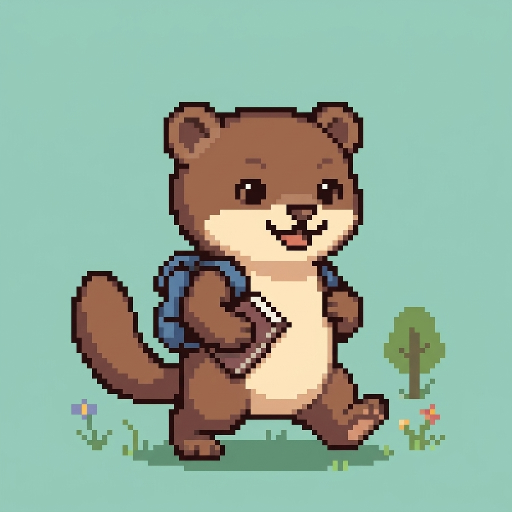
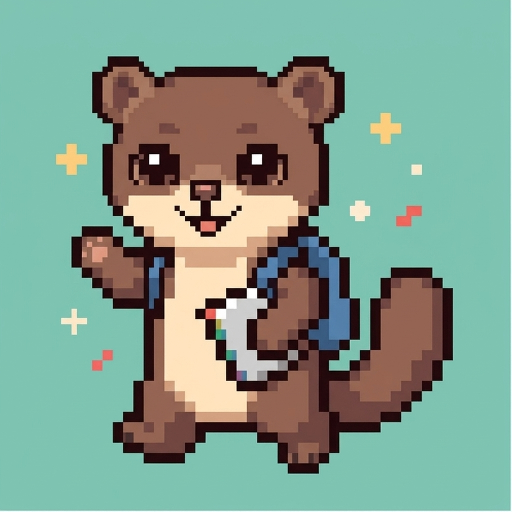
Add files via upload

diff --git a/main.py b/main.py
@@ -252,7 +252,7 @@ def cmd_start(message):
     send_mascot_art(
         message.chat.id,
         'marten_welcome',
-        f'🐾 <b>С возвращением!</b> Куница на связи и готова к работе.\n\n'
+        f'🐾 <b>С возвращением!</b> Яша на связи и готов к работе.\n\n'
         f'<blockquote>{group_info_block}'
         f'👤 <b>Статус:</b> {role_text}\n'
         f'🗓 <b>Авторассылка:</b> {sub_status}\n'
@@ -365,7 +365,7 @@ def handle_menu(message):
     if 'сегодня' in text_lower:
         log_stat_event('today')
         text = get_schedule_text(now_local(), course, group_name, faculty_code=fac_code)
-        is_chill = any(k in text for k in ('свернулась калачиком', 'пар на этот день нет', 'внезапный выходной'))
+        is_chill = any(k in text for k in ('свернулся калачиком', 'пар на этот день нет', 'внезапный выходной'))
         art_key = 'marten_chill' if is_chill else 'marten_classes'
         send_mascot_art(
             user_id,
@@ -379,7 +379,7 @@ def handle_menu(message):
         log_stat_event('tomorrow')
         tomorrow_dt = now_local() + timedelta(days=1)
         text = get_schedule_text(tomorrow_dt, course, group_name, faculty_code=fac_code)
-        is_chill = any(k in text for k in ('свернулась калачиком', 'пар на этот день нет', 'внезапный выходной'))
+        is_chill = any(k in text for k in ('свернулся калачиком', 'пар на этот день нет', 'внезапный выходной'))
         art_key = 'marten_chill' if is_chill else 'marten_classes'
         send_mascot_art(
             user_id,
@@ -1066,7 +1066,7 @@ def _run_scheduled_mailing(day_offset, greeting_line, day_label_genitive, sub_co
 def morning_mailing():
     _run_scheduled_mailing(
         0,
-        '☀🐾 <b>Доброе утро!</b> Куница принесла расписание пар и ДЗ на сегодня:',
+        '☀🐾 <b>Доброе утро!</b> Яша принёс расписание пар и ДЗ на сегодня:',
         'сегодня',
         sub_column='sub_morning',
     )
@@ -1075,7 +1075,7 @@ def morning_mailing():
 def evening_mailing():
     _run_scheduled_mailing(
         1,
-        '🌙🐾 <b>Добрый вечер!</b> Куница напоминает о парах и ДЗ на завтра:',
+        '🌙🐾 <b>Добрый вечер!</b> Яша напоминает о парах и ДЗ на завтра:',
         'завтра',
         sub_column='sub_evening',
     )

diff --git a/schedule_search.py b/schedule_search.py
@@ -317,14 +317,14 @@ def get_schedule_text(target_date, course, group_name, faculty_code=None):
             'Как только оно появится, бот уведомит об этом!</i>\n\n'
         )
     elif day_name == 'Воскресенье' and not replacements:
-        body = '🐾 <i>Воскресенье — Куница свернулась калачиком и отдыхает! Набирайся сил перед новой учебной неделей.</i>\n\n'
+        body = '🐾 <i>Воскресенье — Яша свернулся калачиком и отдыхает! Набирайся сил перед новой учебной неделей.</i>\n\n'
     elif week_number in core.PRACTICE_WEEKS.get(group_name, set()) and not replacements:
         body = '🛠 <i>На этой неделе аудиторных пар нет — у группы проходит учебная или производственная практика.</i>\n\n'
     elif not rows and not replacements:
         if cancelled_slots:
-            body = '🐾 <i>Все пары на этот день отменены — Куница одобряет внезапный выходной!</i>\n\n'
+            body = '🐾 <i>Все пары на этот день отменены — Яша одобряет внезапный выходной!</i>\n\n'
         else:
-            body = '🐾 <i>Куница проверила расписание — пар на этот день нет, можно спокойно отдохнуть!</i>\n\n'
+            body = '🐾 <i>Яша проверил расписание — пар на этот день нет, можно спокойно отдохнуть!</i>\n\n'
     else:
         now_dt = now_local()
         if target_date.date() == now_dt.date():
@@ -737,7 +737,7 @@ def open_search_menu(chat_id, message_id=None):
     )
     text = (
         '🐾 <b>ПОИСК ПО ИНСТИТУТУ</b>\n\n'
-        'Куница поможет быстро найти:\n'
+        'Яша поможет быстро найти:\n'
         '• <b>Где преподаватель?</b> — по твоей группе, факультету или всему институту на <i>сегодня</i>, <i>завтра</i> или <i>неделю</i>.\n'
         '• <b>Свободные аудитории</b> — пустые кабинеты на нужный день и пару.'
     )

diff --git a/vk_bot.py b/vk_bot.py
@@ -398,11 +398,11 @@ def get_day_schedule_plain(target_date, fac_code, course, group_name):
     if week_num <= 0 and not replacements:
         lines.append(f'⏳ Учебный год стартует с {core.ACADEMIC_YEAR_START_DATE.strftime("%d.%m.%Y")}.')
     elif day_name == 'Воскресенье' and not replacements:
-        lines.append('🐾 Воскресенье — Куница свернулась калачиком и отдыхает!')
+        lines.append('🐾 Воскресенье — Яша свернулся калачиком и отдыхает!')
     elif week_num in core.PRACTICE_WEEKS.get(group_name, set()) and not replacements:
         lines.append('🛠 На этой неделе у группы проходит практика.')
     elif not rows and not replacements:
-        lines.append('🐾 Куница проверила расписание — пар на этот день нет!')
+        lines.append('🐾 Яша проверил расписание — пар на этот день нет!')
     else:
         for time_slot, subj, l_type, teacher, room in rows:
             lines.append(f'{format_pair_prefix(time_slot)}')
@@ -1258,7 +1258,7 @@ def handle_message(vk, user_id, peer_id, text, raw_payload=None, attachments=Non
         send_vk_msg(
             vk,
             peer_id,
-            '🐾 Привет! Я — Куница-помощник СИ УУНиТ (общая база с Telegram).\n\nВыбери свой факультет:',
+            '🐾 Привет! Я — Яша, помощник СИ УУНиТ (общая база с Telegram).\n\nВыбери свой факультет:',
             keyboard=build_faculties_kb(),
         )
         return

diff --git a/admin_replacements.py b/admin_replacements.py
@@ -2808,9 +2808,9 @@ def build_session_view(group_name, faculty_code=None, can_edit=False):
 
     if not upcoming:
         if passed_cnt > 0:
-            text += '🐾 <i>Все экзамены и зачёты позади — Куница поздравляет с закрытой сессией!</i>'
+            text += '🐾 <i>Все экзамены и зачёты позади — Яша поздравляет с закрытой сессией!</i>'
         else:
-            text += '🐾 <i>Экзамены и зачёты пока не добавлены — Куница на страже, скоро появятся.</i>'
+            text += '🐾 <i>Экзамены и зачёты пока не добавлены — Яша на страже, скоро появятся.</i>'
     else:
         for d_obj, (ex_id, ex_date, ex_time, subj, ex_type, teacher, room) in upcoming:
             left_lbl = _format_days_left_label(d_obj, today)

diff --git a/core.py b/core.py
@@ -1900,7 +1900,7 @@ def start_onboarding(message):
     send_mascot_art(
         message.chat.id,
         'marten_welcome',
-        '🐾 <b>Привет! Я — Куница-помощник!</b>\n'
+        '🐾 <b>Привет! Я — Яша!</b>\n'
         'Слежу за расписанием, заменами, домашкой и сессией <i>Сибайского института (филиала) УУНиТ</i>.\n'
         f'<i>by @{ADMIN_USERNAME}</i>\n\n'
         '👇 Для начала выбери свой <b>факультет</b>:',
